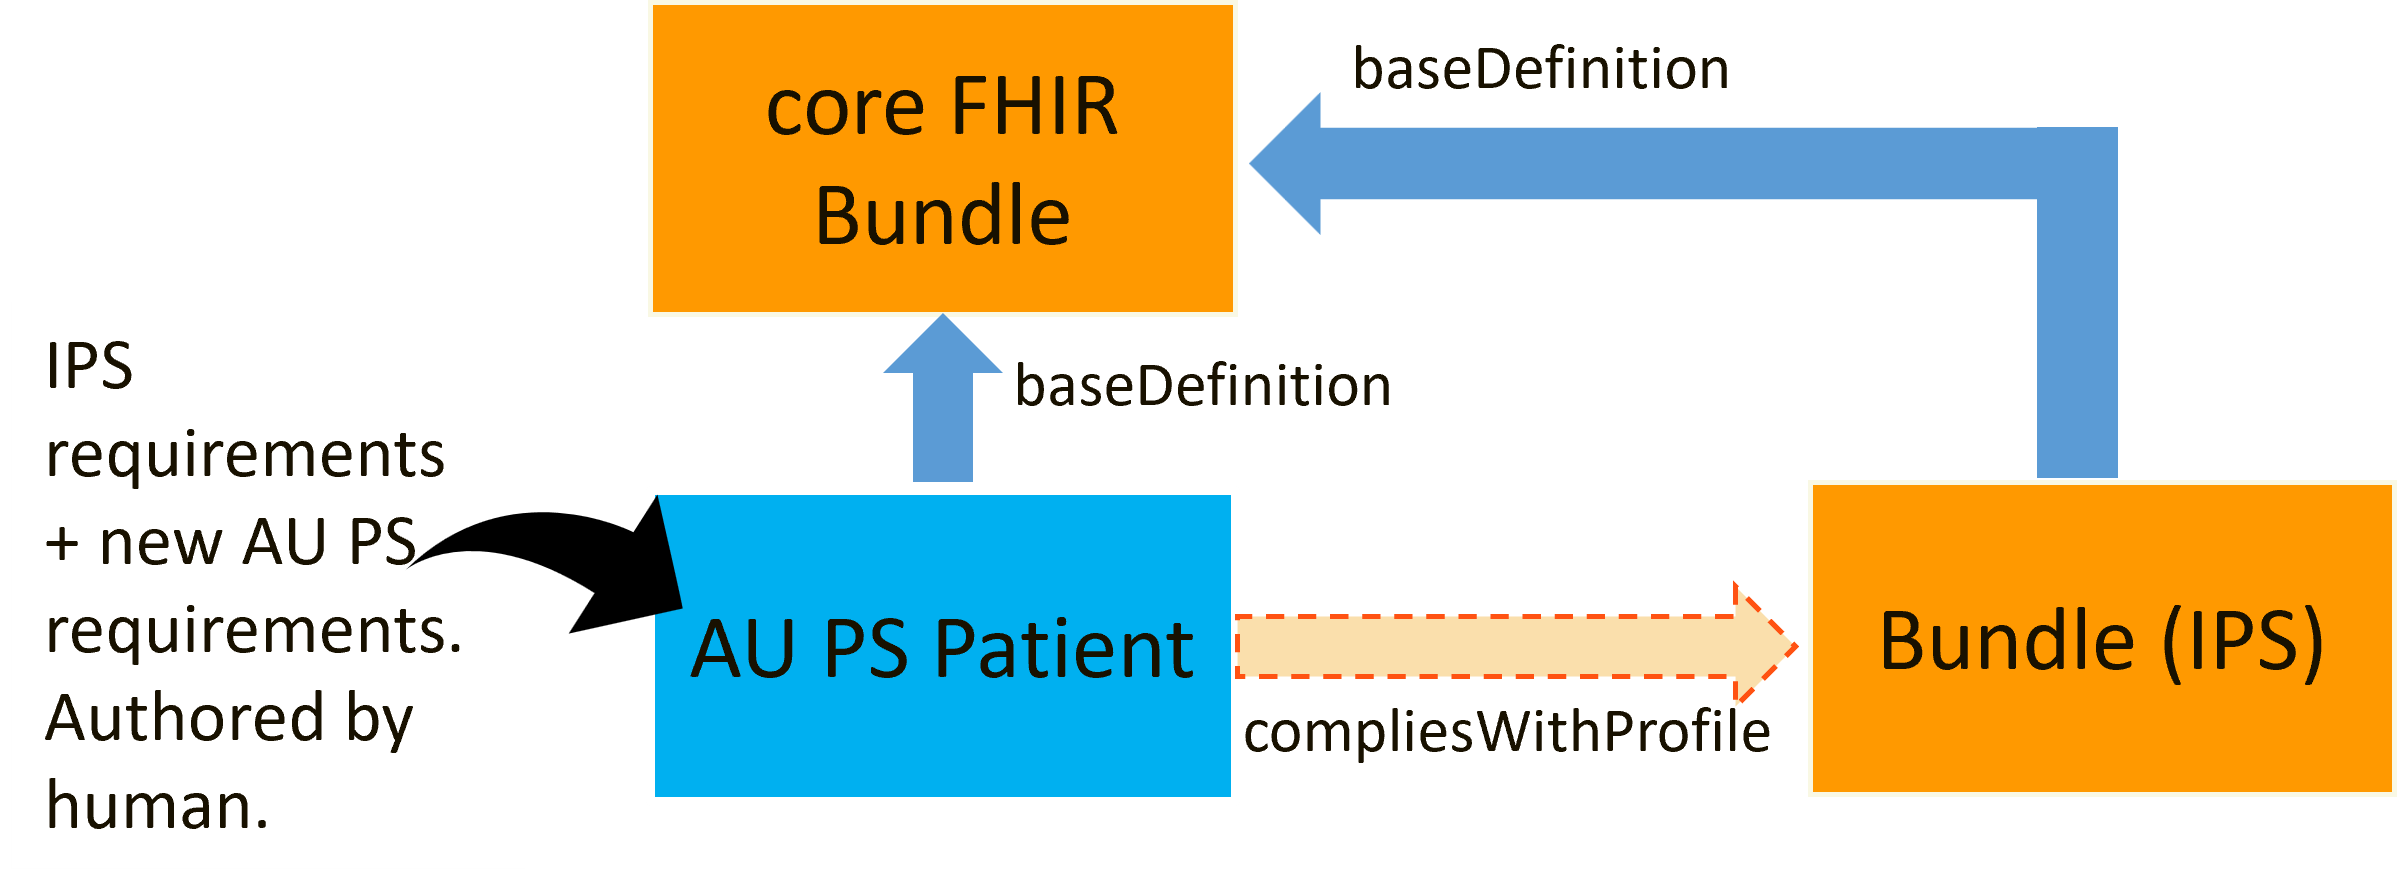
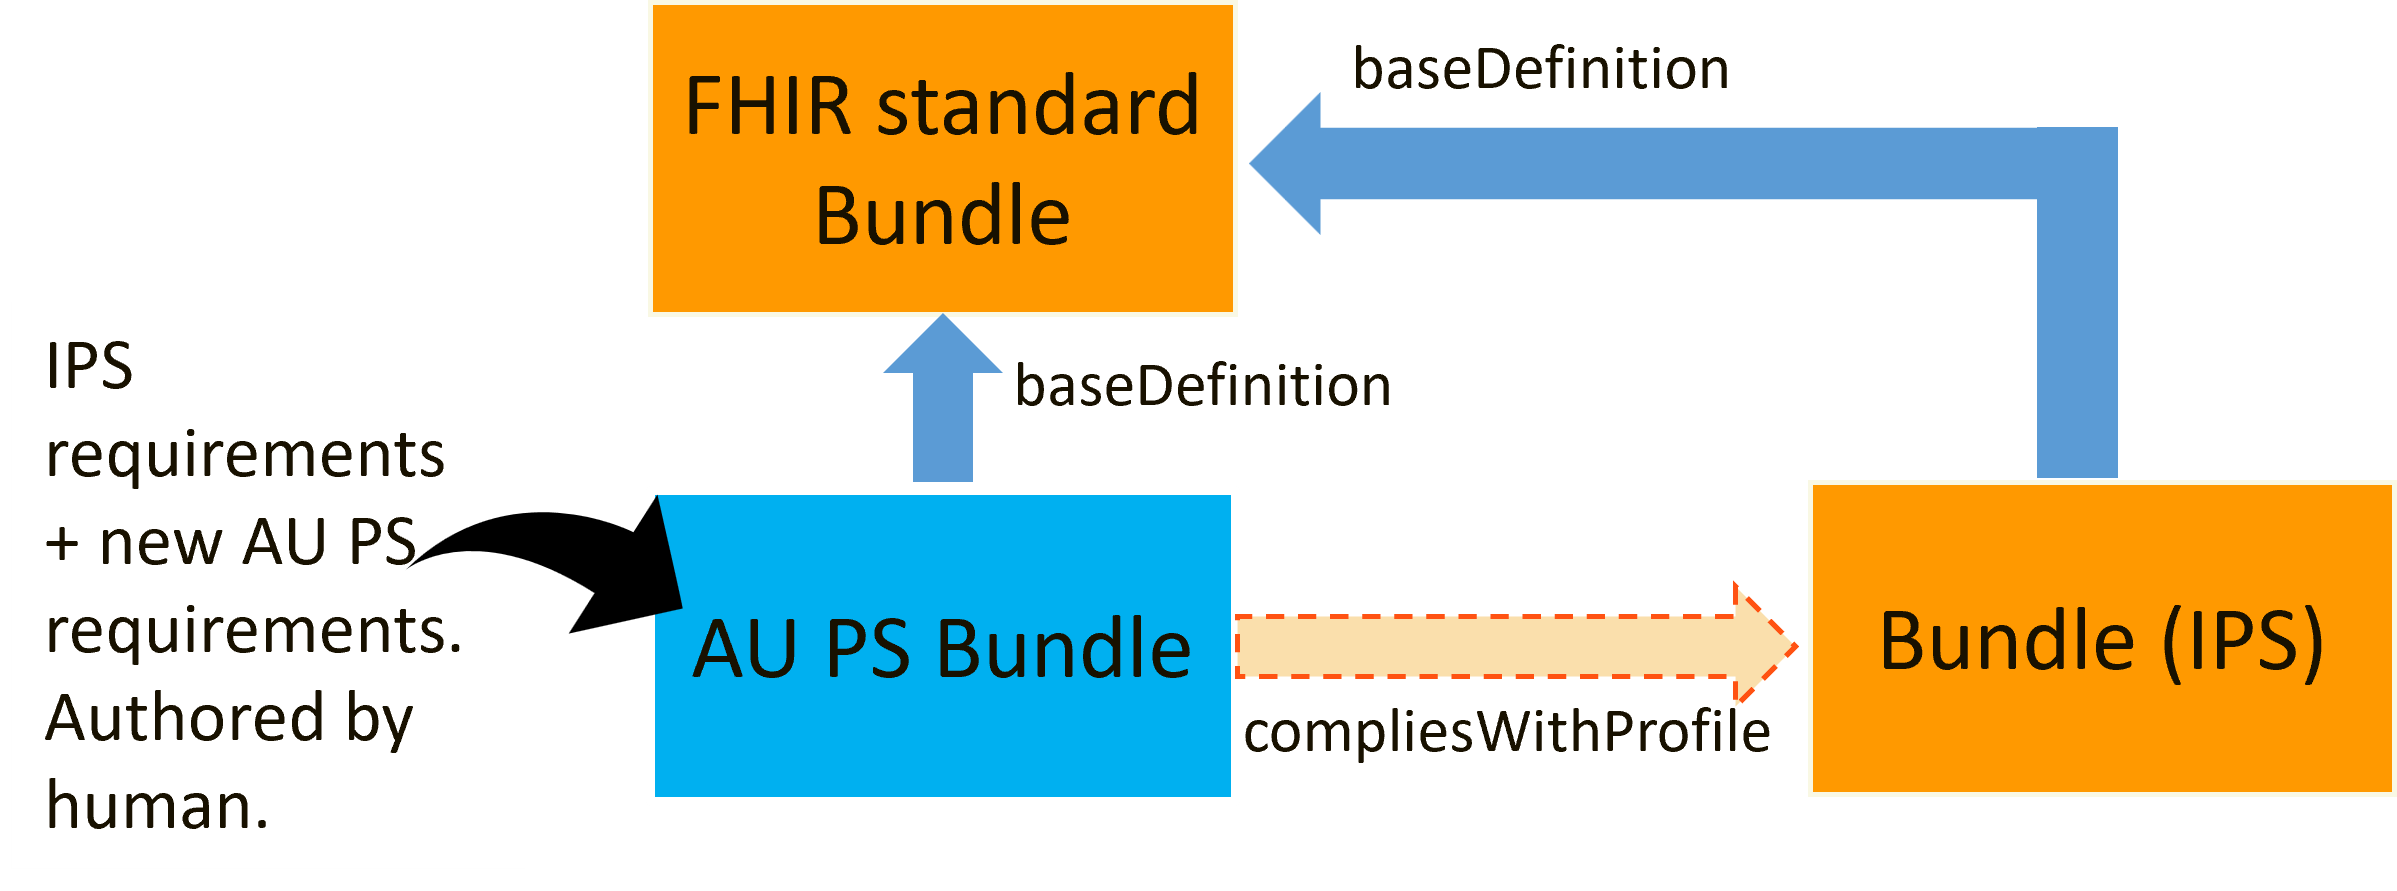
typographical improvements

Changed region(s): [[0.2778, 0.0606, 0.5248, 0.1515], [0.2778, 0.697, 0.494, 0.7576]]

diff --git a/input/pagecontent/general-guidance.md b/input/pagecontent/general-guidance.md
@@ -1,12 +1,12 @@
 {::options toc_levels="1..4"/}
 
 ### Approach of this Implementation Guide
-AU Patient Summary (AU PS) is provided to support the use of patient summaries in HL7® FHIR®© in an Australian context. AU PS is based on [IPS](https://hl7.org/fhir/uv/ips/STU2/index.html) and [AU Core](https://build.fhir.org/ig/hl7au/au-fhir-core), setting the minimum conformance expectations for implementing AU PS documents in systems.
+AU Patient Summary (AU PS) is provided to support the use of patient summaries in HL7 FHIR in an Australian context. AU PS is based on [IPS](https://hl7.org/fhir/uv/ips/STU2/index.html) and [AU Core](https://build.fhir.org/ig/hl7au/au-fhir-core), setting the minimum conformance expectations for implementing AU PS documents in systems.
 
 AU PS, by design:
 * ensures compliance with AU Core and IPS
 * includes additional requirements agreed as necessary to support patient summaries in an Australian healthcare context (see [the AU PS](the-aups.html))
-* supports varied stakeholder needs in the use of AU PS artefacts (e.g. government policy, implementers, tooling developers, testers, IG authors/maintainers etc.)
+* supports varied stakeholder needs in the use of AU PS artefacts (e.g. policy makers, implementers, tooling developers, testers, IG authors/maintainers etc.)
 
 The approach to describing the 'minimum' in AU PS means modelling in such a way that 'at least' what is to be supported is defined without limiting meaningful options for business rules and different clinical workflows. AU PS artefacts are therefore modelled as open templates allowing for additional content including elements, extensions, resources, search parameters, operations, and terminology whilst ensuring the minimum requirements are met.
 
@@ -31,14 +31,14 @@ It is anticipated that extension profiles may be included in future releases of 
 #### Terminology Approach
 AU PS does not define new terminology FHIR artefacts (e.g. value sets or code systems). Terminology supported in AU PS are published in [AU Base](https://build.fhir.org/ig/hl7au/au-fhir-base/terminology.html), the FHIR standard, [HL7 Terminology (THO)](https://terminology.hl7.org/), or the [National Clinical Terminology Service (NCTS)](https://www.healthterminologies.gov.au/). 
 
-As part of profiling, AU PS inherits the AU Core localised terminology and indicates support expectations for an AU PS actor using _Must Support_ and Obligations. For more information on the terminology modelling inherited from AU Core see the guidance in AU Core [Use of Terminology Bindings](https://build.fhir.org/ig/hl7au/au-fhir-core/general-guidance.html#use-of-terminology-bindings). 
+As part of profiling, AU PS inherits the AU Core localised terminology and indicates support expectations for an AU PS actor using _Must Support_ and obligations. For more information on the terminology modelling inherited from AU Core see the guidance in AU Core [Use of Terminology Bindings](https://build.fhir.org/ig/hl7au/au-fhir-core/general-guidance.html#use-of-terminology-bindings). 
 
-In terms of support in AU PS profiles, a coded element can have support defined for one or many value sets. Coded elements that define support for more than one value set include them in a profile by slicing the [Coding](http://hl7.org/fhir/R4/datatypes.html#Coding) part of the element and placing *Must Support* on each value set slice. These value set slices are not intended to prevent systems from supplying only a text value. Most coded *Must Support* elements in AU PS profiles define support for one value set, which is bound to the supported element and no value set slice is present.
+In terms of support in AU PS profiles, a coded element can have support defined for one or more value sets. Coded elements that define support for more than one value set include them in a profile by slicing the [Coding](http://hl7.org/fhir/R4/datatypes.html#Coding) part of the element and placing *Must Support* on each value set slice. These value set slices are not intended to prevent systems from supplying only a text value. Most coded *Must Support* elements in AU PS profiles define support for one value set, which is bound to the supported element and no value set slice is present.
 
 For:
-* a list of the terminologies supported in AU PS, refer to the [Terminology](terminology.html) page. 
-* a description of the localisation of terminology compared to the IPS, refer to [Terminology Localisation](the-aups.html#terminology-localisation).
-* guidance on selection of terminology in HL7 AU IGs, refer to the AU Base guidance on [Terminology Selection](https://build.fhir.org/ig/hl7au/au-fhir-base/generalguidance.html#terminology-selection).
+* a list of the terminologies supported in AU PS, refer to the [Terminology](terminology.html) page
+* a description of the localisation of terminology supported in AU PS compared to the IPS, refer to [Terminology Localisation](the-aups.html#terminology-localisation)
+* guidance on selection of terminology in HL7 AU IGs, refer to the AU Base guidance on [Terminology Selection](https://build.fhir.org/ig/hl7au/au-fhir-base/generalguidance.html#terminology-selection)
 
 #### Resource Profile Approach
 
@@ -55,9 +55,9 @@ For:
 * AU PS profiles **SHALL** validate reference elements against AU PS profiles (where available), otherwise the AU Core profile where available, otherwise the IPS profile where available, otherwise the AU Base profile where available
 * In AU PS profiles, terminology bindings inherited from the underlying AU Core profile are preferenced over terminology bindings in IPS profiles:
    - where an element has a [required](https://hl7.org/fhir/R4/terminologies.html#required) binding, the element **SHALL** apply the intersection of both value sets (AU Core and IPS)
-   - where an element has a lesser binding strength ([extensible](https://hl7.org/fhir/R4/terminologies.html#extensible), [preferred](https://hl7.org/fhir/R4/terminologies.html#preferred), [example](https://hl7.org/fhir/R4/terminologies.html#example)), use the AU Core value set and binding strength (where AU Core bindings strength is equal or stronger) or use the IPS value set where the binding strength is stronger
+   - where an element has a lesser binding strength ([extensible](https://hl7.org/fhir/R4/terminologies.html#extensible), [preferred](https://hl7.org/fhir/R4/terminologies.html#preferred), [example](https://hl7.org/fhir/R4/terminologies.html#example)), use the AU Core value set and binding strength (where the AU Core binding strength is equal or stronger than the IPS binding strength) or use the IPS value set where the IPS binding strength is stronger than the AU Core binding strength
 * An AU PS profile **SHALL** inherit the IPS profile obligations and **MAY** strengthen the IPS profile obligations (using a specialisation of the defined obligation) or add an additional obligation (e.g. SHOULD:persist), as required for the Australian context. A weaker obligation **SHALL NOT** be specified.
-* Where one or both AU Core and IPS profiles do not exist, **SHALL** ensure resources validate against:
+* Where one or both AU Core and IPS profiles do not exist, AU PS profiles **SHALL** ensure resources validate against:
    * IPS profile (where only the IPS profile exists)
    * AU Core profile (where only the AU Core profile exists)
    * AU Base profile (where available and neither the IPS or AU Core profile exists)
@@ -87,7 +87,7 @@ When modelling AU PS resource profiles, they:
 *Figure 1: AU PS resource profile modelling*<a name="profilingapproach">
 <br/><br/>
 
-This modelling applies the typical HL7 AU profile modelling approach to use derivation to manage compliance across the HL7 AU profile stack and allow for the additional of IPS and AU PS project requirements, see the example in the figure below.
+This modelling applies the typical HL7 AU profiling approach to use derivation to manage compliance across the HL7 AU profile stack and allows for the addition of IPS and AU PS project requirements, see the example in the figure below.
 
 <div> 
     <img src="patient-profilingapproach.png" alt="AU PS Patient current profiling approach" style="width:40%"/>
@@ -97,7 +97,7 @@ This modelling applies the typical HL7 AU profile modelling approach to use deri
 
 Due to this modelling, the differential view in an AU PS profile shows the patient summary requirements that are additional to AU Core. In some profiles (e.g. [AU PS Organization](StructureDefinition-au-ps-organization.html)), the only additional requirements are the obligations for AU PS actors.
 
-The AU PS Bundle profile is not based on AU Core or AU Base as no Bundle profile exists in either IG. The approach to profiling for AU PS Bundle is to:
+The [AU PS Bundle](StructureDefinition-au-ps-bundle.html) profile is not based on AU Core or AU Base as no Bundle profile exists in either IG. The approach to profiling for AU PS Bundle is to:
 * derive from the FHIR Bundle resource
 * apply requirements inherited from IPS (in accordance with the [AU PS Profile Design Principles](general-guidance.html#au-ps-profile-design-principles)) 
 * apply additional requirements agreed by the AU PS project
@@ -109,7 +109,7 @@ The AU PS Bundle profile is not based on AU Core or AU Base as no Bundle profile
 *Figure 3: Profiling approach for AU PS Bundle profile*
 <br/><br/>
 
-This approach to AU PS Bundle profiling (deriving from the FHIR Bundle resource and not Bundle (IPS) profile) has been taken as at this time there is a tooling limitation that prevents meeting both of the below conditions:
+This approach to [AU PS Bundle](StructureDefinition-au-ps-bundle.html) profiling (deriving from the FHIR Bundle resource and not [Bundle (IPS)](https://build.fhir.org/ig/HL7/fhir-ips/en/StructureDefinition-Bundle-uv-ips.html) profile) has been taken as at this time there is a tooling limitation that prevents meeting both of the below conditions:
 * derivation from Bundle (IPS)
 * changing reference targets to AU PS profiles (as AU PS profiles derive from AU Core and not IPS they cannot be easily assessed as meeting IPS rules by the tooling)
 
@@ -120,7 +120,7 @@ Additional detail on profiling is:
 ###### Use of Must Support and Obligations
 _[Must Support](general-requirements.html#must-support-and-obligation)_ is used to indicate the elements and extensions that form the minimum requirements of AU PS. Labelling an element _Must Support_ means that systems that produce or consume resources are to provide support for the element in some meaningful way. The FHIR standard does not define exactly what 'meaningful' support for an element means, but indicates that a profile needs to make clear exactly what kind of support is required when an element is labelled as _Must Support_.
 
-The set of _Must Support_ elements in AU PS profiles is inherited from AU Core and IPS profiles (i.e. the union of IPS and AU Core elements labelled *Must Support*). In addition, the mandatory elements in AU PS Bundle, are labelled with *Must Support* (e.g. `Bundle.type`). This is applied as the convention in this guide is to mark all mandatory elements as *Must Support* unless they are nested under an optional element.
+The set of _Must Support_ elements in AU PS profiles is inherited from AU Core and IPS profiles (i.e. the union of IPS and AU Core elements labelled *Must Support*). In addition, the mandatory elements in AU PS Bundle are labelled with *Must Support* (e.g. `Bundle.type`). This is applied as the convention in this guide is to mark all mandatory elements as *Must Support* unless they are nested under an optional element.
 
 The meaning of _Must Support_ in AU PS is defined in:
 * narrative in the IG (e.g. [Missing Data](general-requirements.html#missing-data) requirements)
@@ -137,7 +137,7 @@ When managing [profile complexity and requirements](relationship.html) in the [n
 1. [Complies With Profile (compliesWithProfile)](https://hl7.org/fhir/extensions/StructureDefinition-structuredefinition-compliesWithProfile.html)
 1. [Dependent Profiles (imposeProfile)](https://hl7.org/fhir/extensions/StructureDefinition-structuredefinition-imposeProfile.html)
 
-These mechanisms offer differing capabilities and advantages. Typically HL7 AU profiles use derivation to manage compliance within HL7 AU inheritance (e.g. [AU PS Patient Profiling Approach](general-guidance.html#aupspatientprofilingapproach)). However, as AU PS will comply to both HL7 AU (AU Core) and HL7 Universal Realm (IPS), additional mechanism(s) on top of derivation from the underlying HL7 AU profile stack are required. At this time additional requirements are included in AU PS profiles via informal alignment (i.e. human authoring, human checking) and a [compliesWithProfile](https://hl7.org/fhir/extensions/StructureDefinition-structuredefinition-compliesWithProfile.html) declaration is made.
+These mechanisms offer differing capabilities and advantages. Typically HL7 AU profiles use derivation to manage compliance within HL7 AU inheritance (e.g. [AU PS Patient Profiling Approach](general-guidance.html#aupspatientprofilingapproach)). However, as AU PS will comply with both HL7 AU (AU Core) and HL7 Universal Realm (IPS), additional mechanism(s) on top of derivation from the underlying HL7 AU profile stack are required. At this time additional requirements are included in AU PS profiles via informal alignment (i.e. human authoring, human checking) and a [compliesWithProfile](https://hl7.org/fhir/extensions/StructureDefinition-structuredefinition-compliesWithProfile.html) declaration is made.
 
 <div class="stu-note" markdown="1">
 For a human, the main differences with use of [imposeProfile](https://hl7.org/fhir/extensions/StructureDefinition-structuredefinition-imposeProfile.html) are:
@@ -156,7 +156,7 @@ Users of this implementation guide are encouraged to provide their feedback abou
 AU PS actors are defined to describe the specific sets of functionality supported by systems that play a role in producing or consuming AU PS documents. Each actor is defined by:
 * an actor definition that includes reference to support expectations (narrative conformance requirements)
   * the AU PS actor derives from the corresponding IPS actor
-* resource profiles that define support expectations for actors using _Must Support_ and Obligations 
+* resource profiles that define support expectations for actors using _Must Support_ and obligations 
 
 <div> 
     <img src="actor-derivationapproach.png" alt="Derivation approach for AU PS Consumer actor" style="width:30%"/>
@@ -172,7 +172,7 @@ In this release, AU PS does not include capability statements that describe the 
   * **SHALL** inherit the narrative conformance requirements from AU Core and IPS including Missing Data, Empty Sections, Known Absence of Data
   * **SHALL** inherit IPS Document requirements (see [AU PS Resource Profile Approach](general-guidance.html#resource-profile-approach))
   * **SHALL** inherit AU Core resource profile requirements (see [AU PS Resource Profile Approach](general-guidance.html#resource-profile-approach))
-  * **SHALL** inherit _Must Support_ (the union of IPS and AU Core elements labelled *Must Support*) and IPS Obligation requirements
+  * **SHALL** inherit _Must Support_ (the union of IPS and AU Core elements labelled *Must Support*) and IPS obligation requirements
   * **MAY** strengthen inherited requirements as required for the Australian context. A weaker requirement **SHALL NOT** be specified.
   * **MAY** apply additional requirements agreed by the AU PS project
 

diff --git a/input/pagecontent/general-requirements.md b/input/pagecontent/general-requirements.md
@@ -435,9 +435,9 @@ Profile |Must Support Choice Elements
 
 
 ##### Must Support - Multiple Terminologies
-A coded element can have support defined for one or many value sets. Coded elements that define support for more than one value set include them in a profile by slicing the [Coding](http://hl7.org/fhir/R4/datatypes.html#Coding) part of the element and placing *Must Support* on each value set slice. These value set slices are not intended to prevent systems from supplying only a text value.
+A coded element can have support defined for one or more value sets. Coded elements that define support for more than one value set include them in a profile by slicing the [Coding](http://hl7.org/fhir/R4/datatypes.html#Coding) part of the element and placing *Must Support* on each value set slice. These value set slices are not intended to prevent systems from supplying only a text value.
 
-Most coded *Must Support* elements in AU PS define support for one value set, which is bound to the element and no value set slice is present. For these elements, the section on [Must Support - Complex Elements](general-requirements.html#must-support---complex-elements) and the terminology binding applies.
+For these elements, the section on [Must Support - Complex Elements](general-requirements.html#must-support---complex-elements) and the terminology binding applies.
 
 Where multiple value sets are supported:
 - AU PS Producers **SHALL** correctly populate the element with concepts from all supported value sets where the applicable concept is known.
